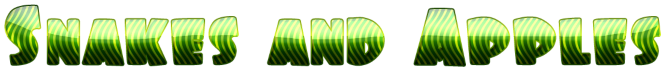
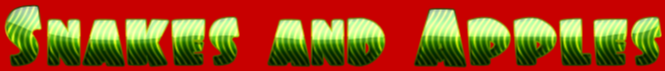
main menu

diff --git a/template_final_project-master/main.py b/template_final_project-master/main.py
@@ -4,7 +4,7 @@ import time
 import random
 
 size = 40
-menu_background_color = (0, 0, 0)
+menu_background_image = "template_final_project-master/assets/menu_screen.png"
 game_background_color = (0, 128, 255)
 
 class Apple:
@@ -121,10 +121,9 @@ class Game:
         self.surface.blit(score, (800, 10))
 
     def show_main_menu(self):
-        self.surface.fill(menu_background_color)
-        title_image = pygame.image.load("template_final_project-master/assets/title.png").convert()
-        title_rect = title_image.get_rect(center=(500, 200))
-        self.surface.blit(title_image, title_rect)
+        background_image = pygame.image.load(menu_background_image).convert()
+        background_image = pygame.transform.scale(background_image, (1000, 800))
+        self.surface.blit(background_image, (0, 0))
 
         play_button = pygame.Rect(400, 300, 200, 50)
         quit_button = pygame.Rect(400, 400, 200, 50)
